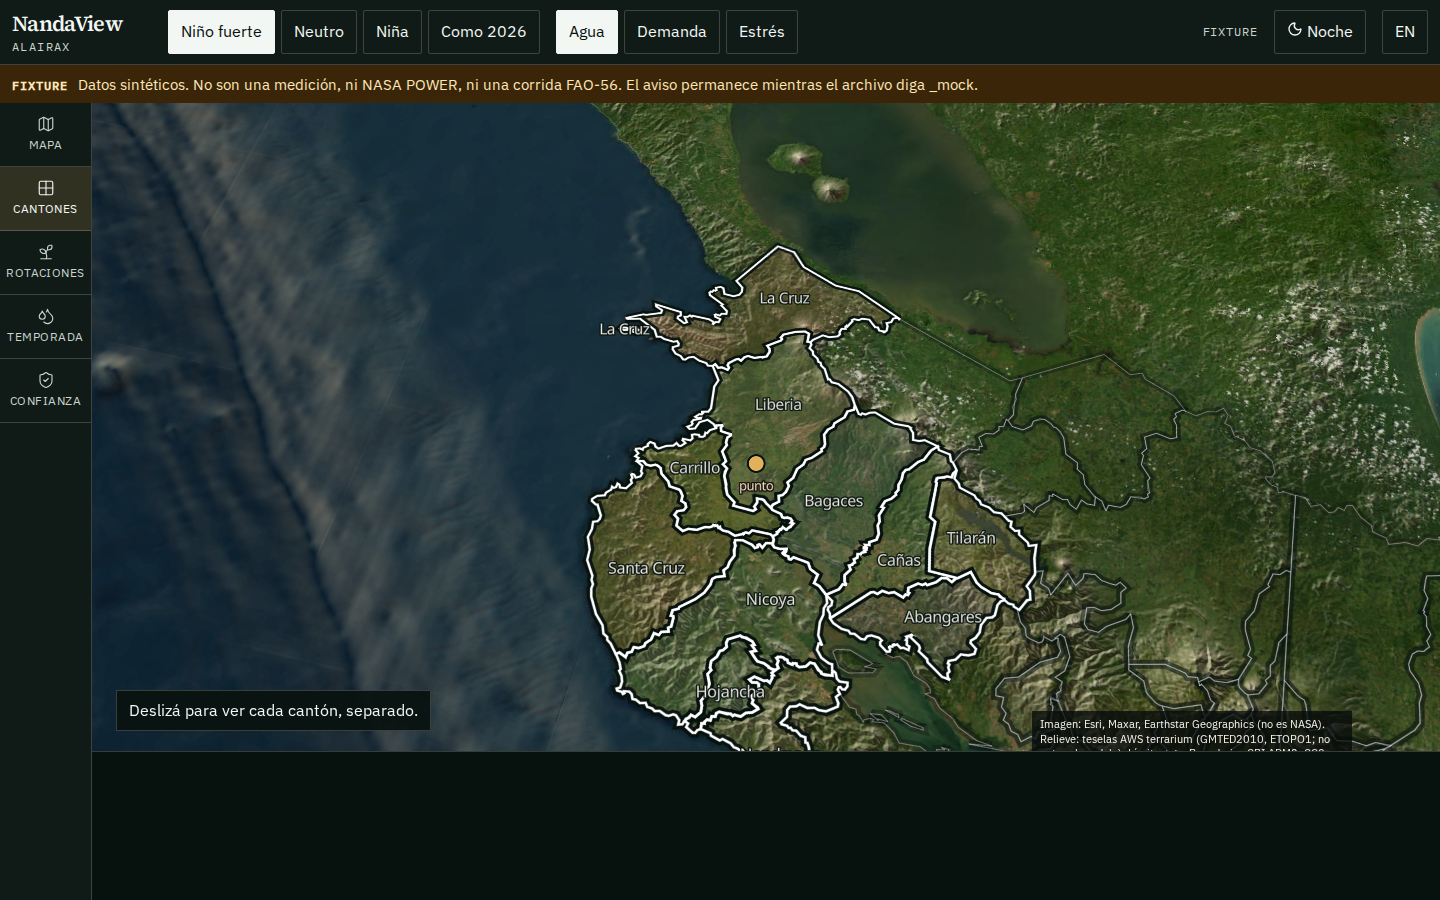
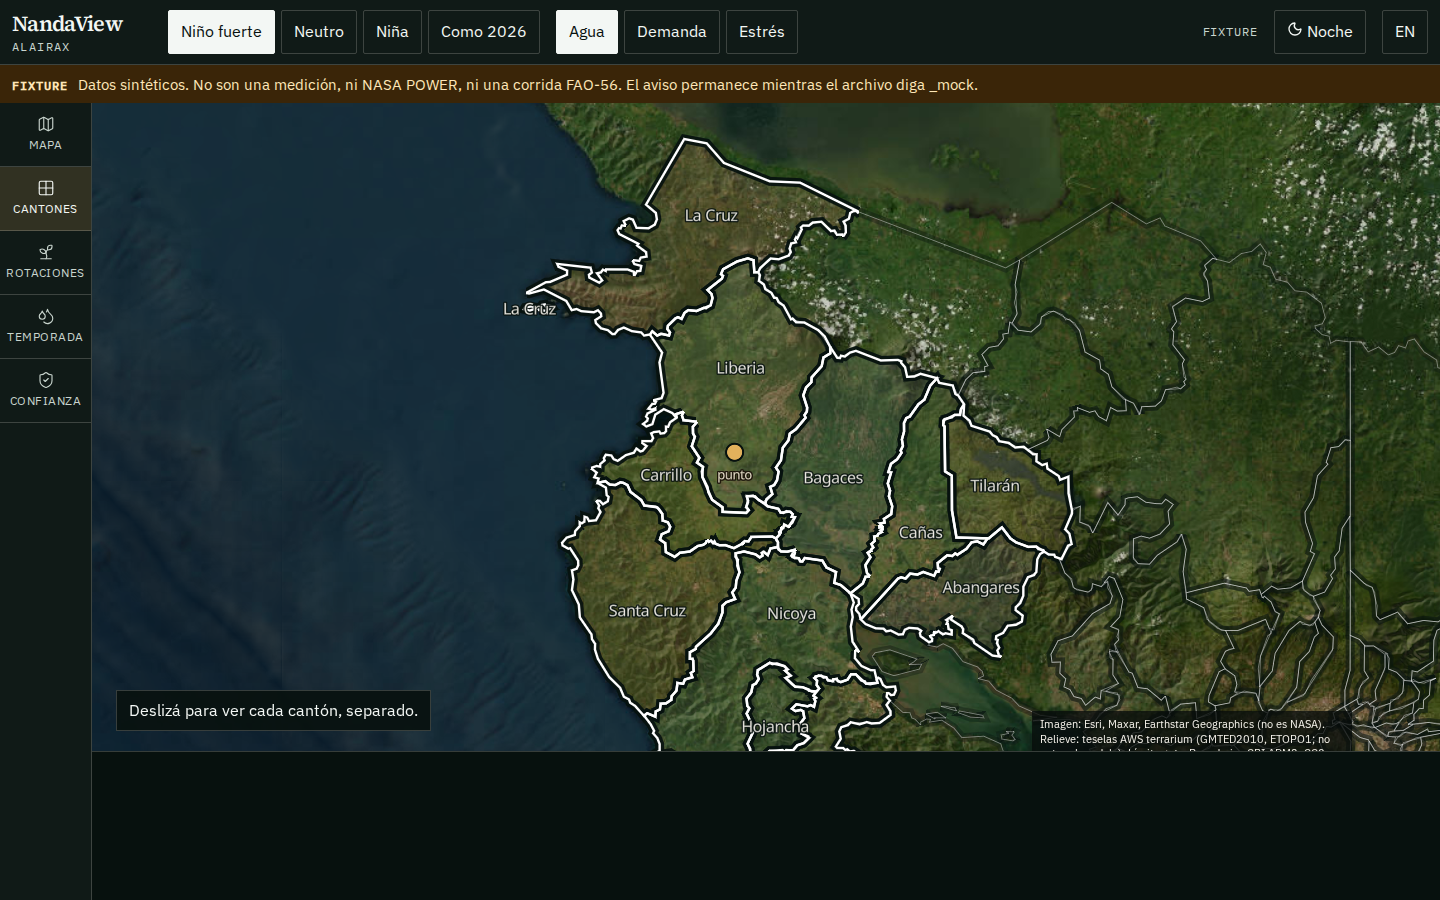
Dejar el mapa en planta.
La vista inclinada con relieve exagerado se leía como un simulador. La cámara queda cenital, el terreno no se levanta y el relieve es solo una sombra suave sobre la fotografía.

diff --git a/frontend/src/map/NandaMap.tsx b/frontend/src/map/NandaMap.tsx
@@ -59,7 +59,7 @@ function buildStyle(): StyleSpecification {
         type: "hillshade",
         source: "dem",
         paint: {
-          "hillshade-exaggeration": 0.55,
+          "hillshade-exaggeration": 0.22,
           "hillshade-illumination-direction": 315,
           "hillshade-shadow-color": "#1a120c",
           "hillshade-highlight-color": "#fff3d4",
@@ -260,28 +260,18 @@ export function NandaMap({ hidden, inset }: { hidden: boolean; inset: "panel" | 
     const map = new maplibregl.Map({
       container: container.current,
       style: buildStyle(),
-      center: [-85.4, 10.05],
+      center: [-85.45, 10.45],
       zoom: 8.05,
-      pitch: 58,
-      bearing: -28,
-      maxPitch: 68,
+      pitch: 0,
+      bearing: 0,
+      maxPitch: 0,
       attributionControl: false,
       fadeDuration: reducedMotion() ? 0 : 280,
     });
     mapRef.current = map;
     map.on("load", () => {
       ready.current = true;
-      map.setTerrain({ source: "dem", exaggeration: 1.35 });
-      map.jumpTo({ center: [-85.4, 10.05], zoom: 8.05, pitch: 58, bearing: -28 });
-      map.setLight({ anchor: "map", position: [1.15, 315, 28], color: "#fff1d6", intensity: 0.7 });
-      map.setSky({
-        "sky-color": "#163038",
-        "horizon-color": "#e6c7a0",
-        "fog-color": "#0d1614",
-        "sky-horizon-blend": 0.55,
-        "horizon-fog-blend": 0.65,
-        "atmosphere-blend": 0.3,
-      });
+      map.setTerrain(null);
       const canvas = map.getCanvas();
       canvas.setAttribute("role", "application");
       const spanish = useInstrument.getState().lang === "es";
@@ -349,12 +339,12 @@ export function NandaMap({ hidden, inset }: { hidden: boolean; inset: "panel" | 
             [[bounds[0], bounds[1]], [bounds[2], bounds[3]]],
             {
               padding: narrow
-                ? { top: 56, bottom: 150, left: 16, right: 16 }
+                ? { top: 96, bottom: 210, left: 12, right: 12 }
                 : inset === "panel"
-                  ? { top: 36, bottom: 72, left: 430, right: 88 }
-                  : { top: 48, bottom: 48, left: 120, right: 48 },
-              pitch: inset === "panel" ? 40 : 26,
-              bearing: -14,
+                  ? { top: 28, bottom: 120, left: 430, right: 96 }
+                  : { top: 36, bottom: 64, left: 120, right: 56 },
+              pitch: 0,
+              bearing: 0,
               duration: reducedMotion() ? 0 : 900,
               maxZoom: 8.8,
             },
@@ -381,7 +371,7 @@ export function NandaMap({ hidden, inset }: { hidden: boolean; inset: "panel" | 
       map.setLayoutProperty("osm-roads", "visibility", overlays.osm ? "visible" : "none");
       map.setLayoutProperty("osm-places", "visibility", overlays.osm ? "visible" : "none");
       map.setLayoutProperty("hillshade", "visibility", overlays.terrain ? "visible" : "none");
-      map.setTerrain(overlays.terrain ? { source: "dem", exaggeration: window.innerWidth < 800 ? 1.15 : 1.35 } : null);
+      map.setTerrain(null);
       const zoom = map.getZoom();
       const level = zoom < 8.2 ? "coarse" : zoom < 10 ? "mid" : "fine";
       for (const res of ["coarse", "mid", "fine"]) {
@@ -413,8 +403,8 @@ export function NandaMap({ hidden, inset }: { hidden: boolean; inset: "panel" | 
     map.flyTo({
       center: feature.properties.center,
       zoom: 9.6,
-      pitch: narrow ? 35 : 55,
-      bearing: -16,
+      pitch: 0,
+      bearing: 0,
       duration: reducedMotion() ? 0 : 1700,
       curve: 1.35,
       essential: true,
@@ -449,11 +439,11 @@ export function NandaMap({ hidden, inset }: { hidden: boolean; inset: "panel" | 
   useEffect(() => {
     const map = mapRef.current;
     if (!map || !location) return;
-    const narrow = window.innerWidth < 800;
     map.flyTo({
       center: [location.longitude, location.latitude],
       zoom: Math.max(map.getZoom(), 10),
-      pitch: narrow ? 32 : 52,
+      pitch: 0,
+      bearing: 0,
       duration: reducedMotion() ? 0 : 1800,
       curve: 1.4,
       essential: true,

diff --git a/docs/ui-decisions.md b/docs/ui-decisions.md
@@ -30,7 +30,7 @@ Capas, de abajo hacia arriba:
 6. Placas 3D de cantón, optativas, misma idea: altura constante, color de identidad.
 7. Calles y poblados de OpenFreeMap (dato OSM, esquema OpenMapTiles), desde un zoom cercano. No se usa `tile.openstreetmap.org`. La atribución de OSM aparece cuando la capa está encendida, y el crédito de límites y de imagen está siempre.
 
-La cámara abre sobre Guanacaste con inclinación y una curva al volar a un cantón o a la ubicación del usuario. El punto del modelo es el `zona` de la respuesta, no un marcador fijo en el código.
+La cámara se queda en planta. Una vista inclinada con relieve exagerado se leía como un juego, no como un mapa de trabajo. El relieve, si está encendido, es una sombra suave sobre la fotografía, sin levantar el terreno. El punto del modelo es el `zona` de la respuesta, no un marcador fijo en el código.
 
 ## Datos
 
